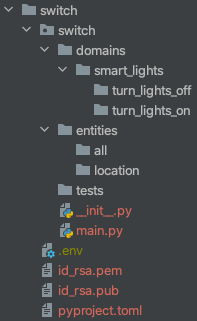
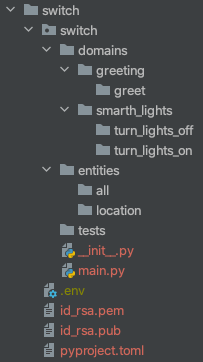
Updated images for directories

diff --git a/docs/Webex Assistant SDK.md b/docs/Webex Assistant SDK.md
@@ -613,14 +613,14 @@ be able to identify which light to switch. On the `switch` app, create the follo
 
 ![File Structure](images/smart_lights_directory.png)
 
-As you can see, we have created a `smart_lights` domain, the intents `turn_lights_on` and `turn_lights_off`, and the 
-entities `all` and `location`. We now need to add training data to make this setup work.
+As you can see, we have created a `greeting` and `smart_lights` domains, the intents `greet`, `turn_lights_on`
+and `turn_lights_off`, and the entities `all` and `location`. We now need to add training data to make this setup work.
 
-Normally, you would need to collect training data manually to create your domain, intents and entities. But for this
+Normally, you would need to collect training data manually to create your domain, intents and entities. But, for this
 guide, we are going to take a shortcut. If you are familiar with the [MindMeld library](https://www.mindmeld.com/), you
 have probably seen that it comes with `Blueprint` applications, so we are going to borrow some data from one of them.
 
-Go to this [repo](https://github.com/CiscoDevNet/mindmeld-blueprints/tree/develop/blueprints/home_assistant/domains/smart_home)
+Go to this [repo](https://github.com/CiscoDevNet/mindmeld-blueprints/tree/develop/blueprints/home_assistant/domains)
 and copy the `train.txt` files from the corresponding intents into our folders. Do the same for entities, from 
 [here](https://github.com/CiscoDevNet/mindmeld-blueprints/tree/develop/blueprints/home_assistant/entities) copy the 
 corresponding `gazetteer.txt` and `mapping.json` files into our folders. Our directory should now look like this:
